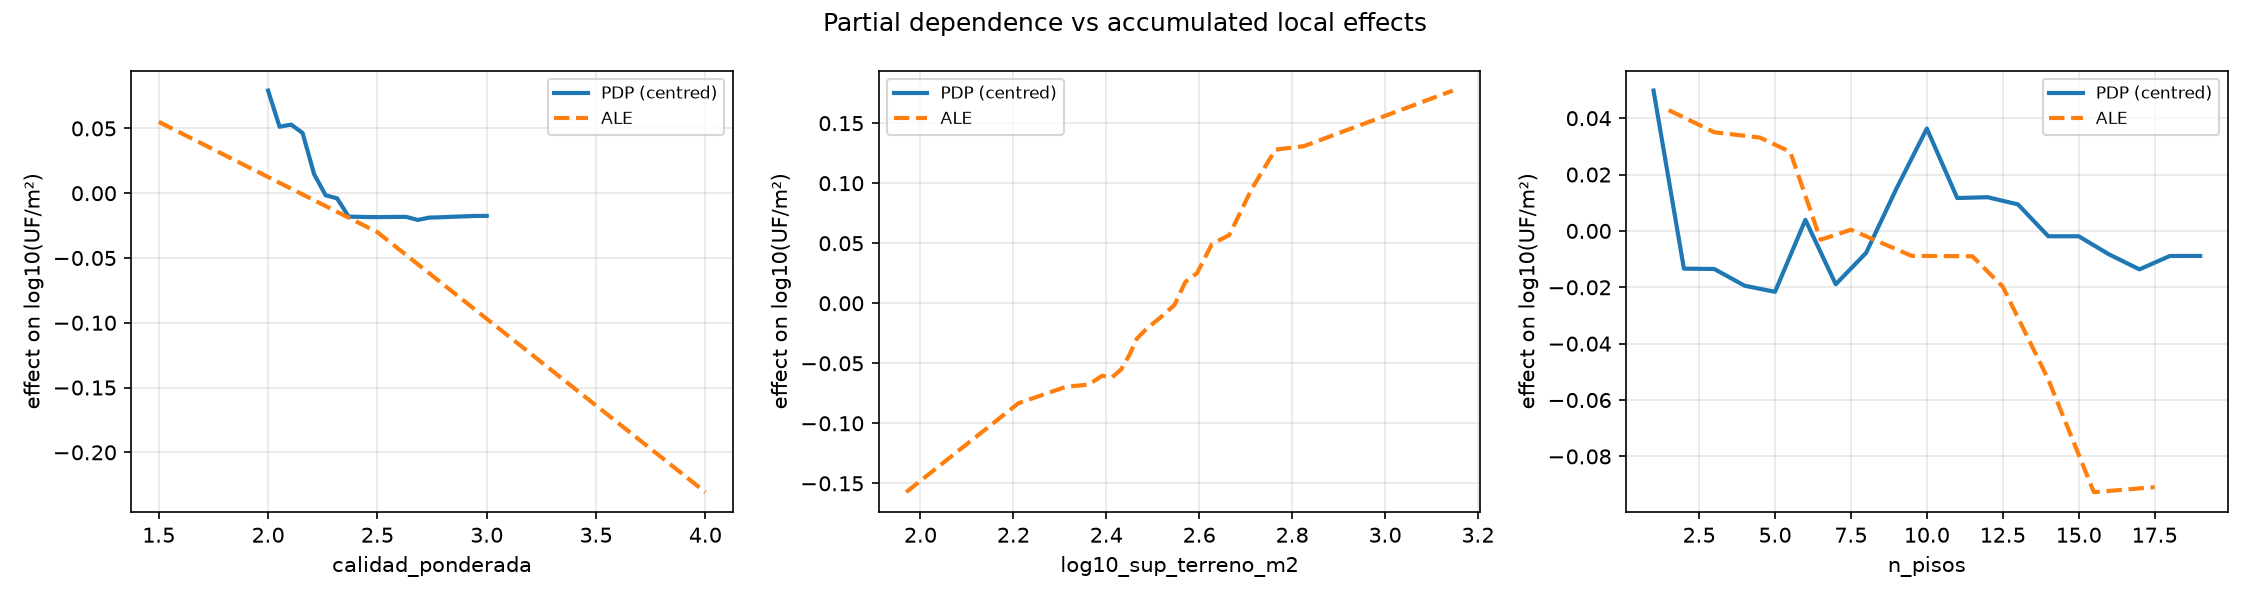
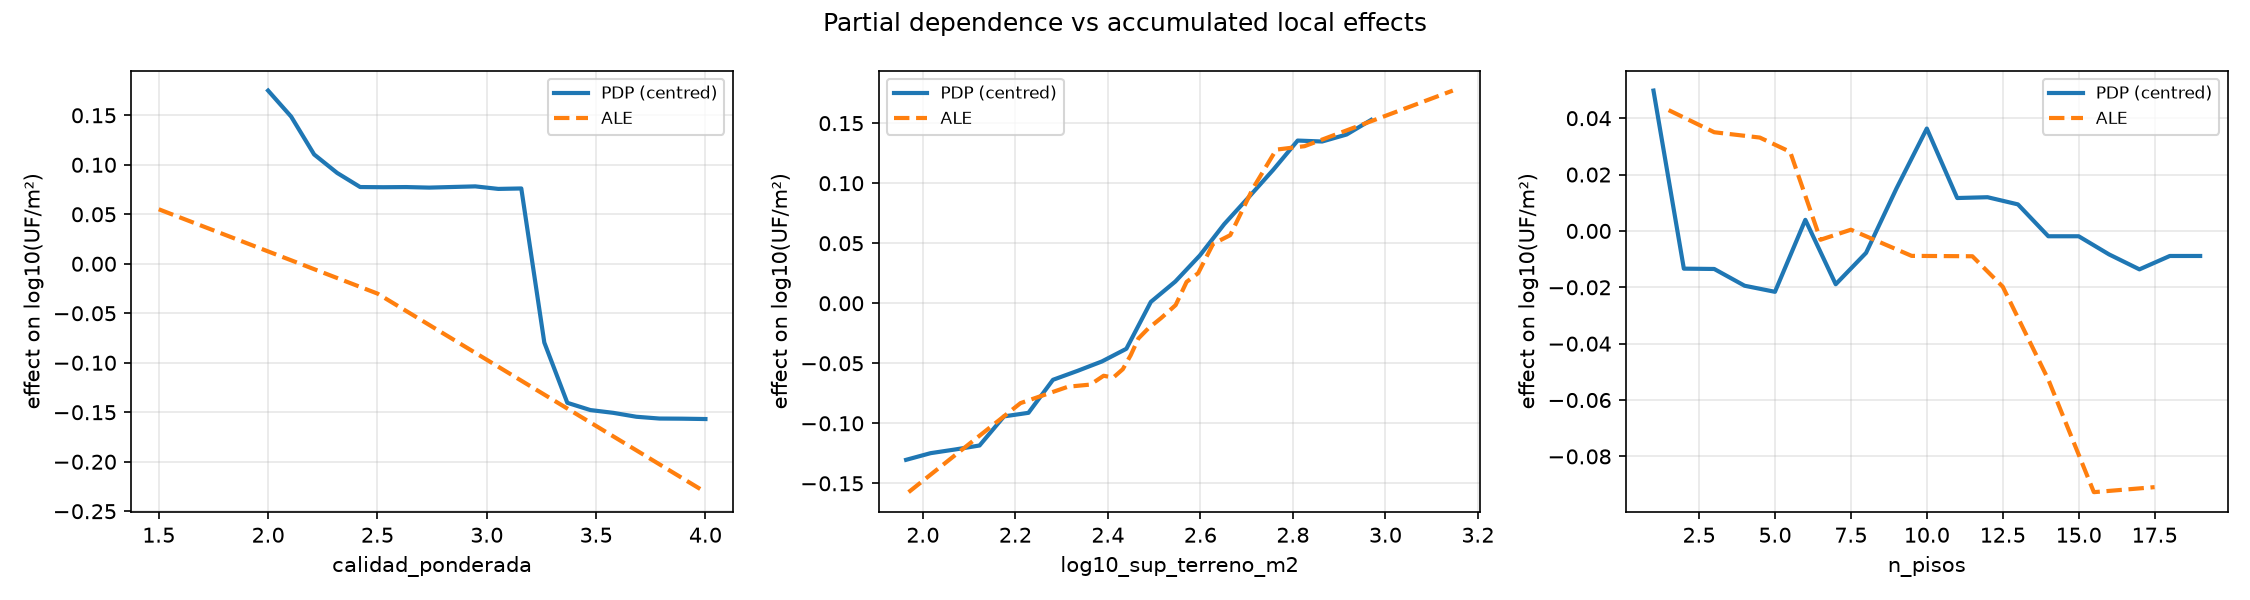
Fix the PDP/ALE figure: a missing curve and a mismatched x-range
Two defects in a published figure, both found by looking at it:

- log10_sup_terreno_m2 had no PDP curve at all. The column is NaN for 86% of
  rows (apartments hold no land of their own), so sklearn's percentile grid
  came back all-NaN and plotted nothing. The PDP is now computed over rows
  where the feature exists, which is also the honest reading: it is a
  statement about properties that have land.
- calidad_ponderada's PDP spanned [2.0, 3.0] against ALE's [1.5, 4.0], because
  partial_dependence clips to the 5th-95th percentile by default. Widened to
  (0.01, 0.99); comparing two curves drawn over different x-ranges is worse
  than not comparing them.

With both fixed the figure makes its point: PDP and ALE agree closely on land
area, and diverge sharply above ~12 floors, where few buildings exist and the
PDP extrapolates into a region with no support while ALE stays local.

diff --git a/experiments/02-plusvalia/interpret.py b/experiments/02-plusvalia/interpret.py
@@ -167,12 +167,26 @@ def main() -> None:
     axes = np.atleast_1d(axes)
     ale_all = {}
     for ax, feat in zip(axes, top):
-        pd_res = partial_dependence(est, Xs.iloc[:5000], [feat], kind="average",
-                                    grid_resolution=20)
-        gx = pd_res["grid_values"][0]; gy = pd_res["average"][0]
-        ax.plot(gx, gy - gy.mean(), label="PDP (centred)", lw=2)
+        panel = Xs.iloc[:5000]
+        # PDP over rows where the feature actually exists. log10_sup_terreno_m2
+        # is NaN for 86% of rows (apartments hold no land of their own), and a
+        # percentile grid over a mostly-NaN column comes back all-NaN and plots
+        # nothing at all. Restricting to houses also makes the curve honest:
+        # it is a statement about properties that have land.
+        pdp_rows = panel[panel[feat].notna()]
+        # percentiles (0.01, 0.99) instead of sklearn's default (0.05, 0.95) so
+        # the PDP spans nearly the same range as ALE - comparing two curves
+        # drawn over different x-ranges is worse than not comparing them.
+        pd_res = partial_dependence(est, pdp_rows, [feat], kind="average",
+                                    grid_resolution=20, percentiles=(0.01, 0.99))
+        gx = np.asarray(pd_res["grid_values"][0]); gy = np.asarray(pd_res["average"][0])
+        ok = np.isfinite(gx) & np.isfinite(gy)
+        if ok.sum() >= 2:
+            ax.plot(gx[ok], gy[ok] - gy[ok].mean(), label="PDP (centred)", lw=2)
+        else:
+            print(f"  WARNING: PDP unavailable for {feat} (grid degenerate)")
 
-        a = ale_1d(pred_fn, Xs.iloc[:5000], feat)
+        a = ale_1d(pred_fn, panel, feat)
         ale_all[feat] = a.to_dict("list")
         if not a.empty:
             ax.plot(a["x"], a["ale"], label="ALE", lw=2, ls="--")
